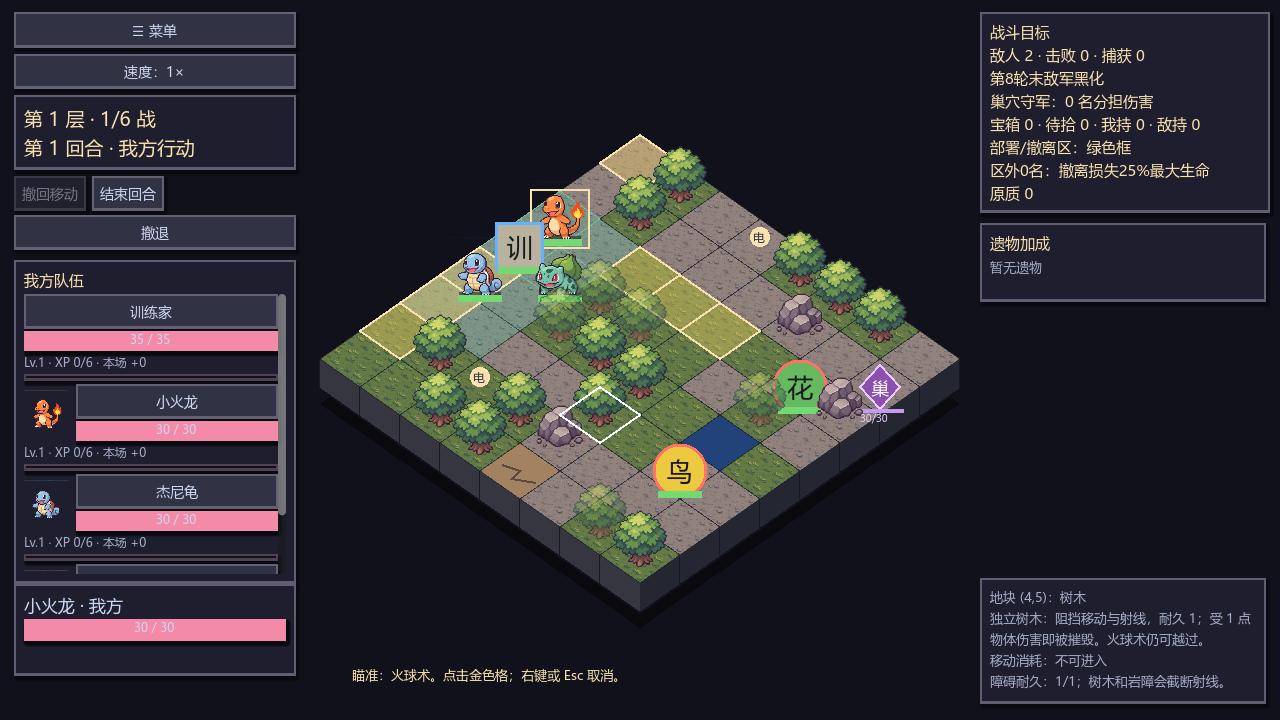
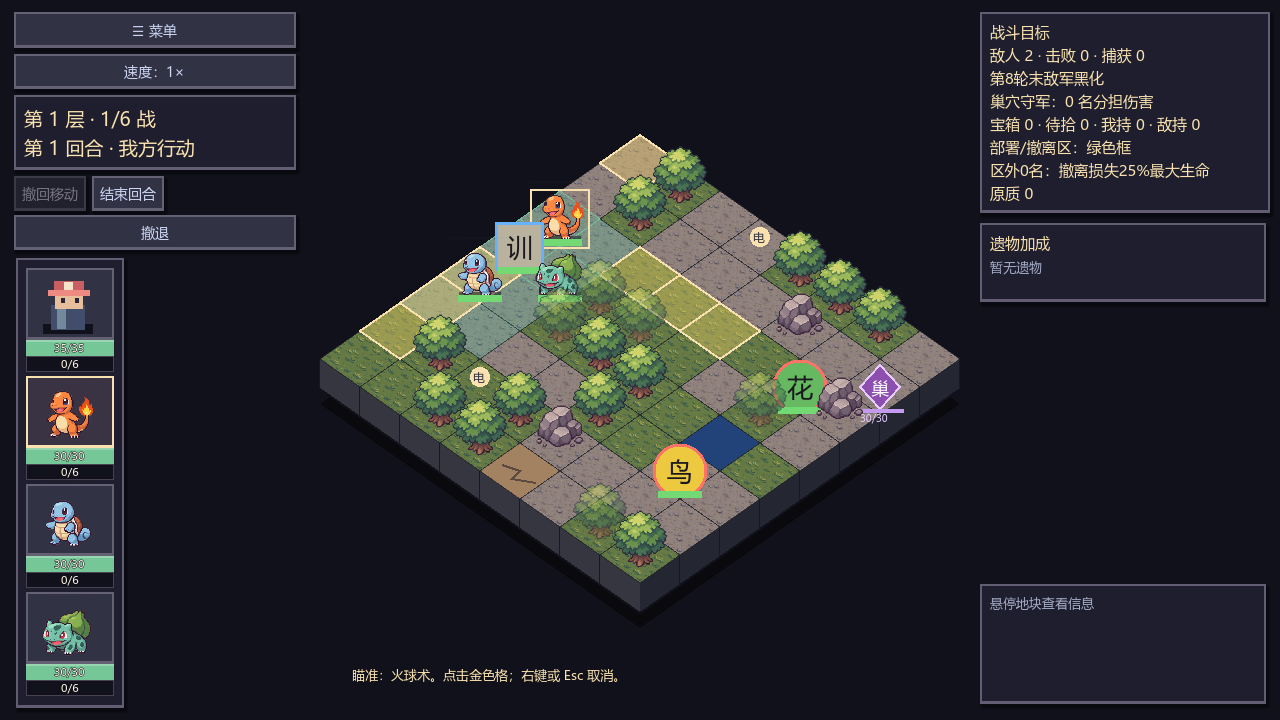
ui: simplify team rail to clickable portraits with health and experience fractions

Changed region(s): [[0.0, 0.3361, 0.25, 1.0], [0.75, 0.7944, 1.0, 0.9778]]

diff --git a/sample/ISOMETRIC.md b/sample/ISOMETRIC.md
@@ -24,3 +24,13 @@
 - isometric-targeting.png：实际技能范围。
 
 完整回归：101用例、13260检查点通过，见本地iso-regression.log；等角专项332检查点通过，见iso-test.log。实机渲染日志iso-render-error.log无脚本错误。全量逻辑测试不能代替所有技能的视觉验收。
+
+## 头像队伍栏简化（2026-11-11）
+
+- 队伍栏为纵向大头像，取消常驻名字、等级与经验说明。
+- 每张头像下紧接绿色生命条与金色经验条，条中央只显示n/n。
+- 整张头像是原有选人操作的入口；选中头像有金色边框，濒死成员禁用。
+- 名称、等级与条的含义通过悬停或键盘聚焦详情显示。
+- 四名初始成员在1280×720画面内同时显示；隐藏重复的左下角选中单位卡。
+- 训练师头像使用临时程序绘制形象，尚非正式委托的角色立绘。
+- 本轮验证：等角与头像专项358检查点、界面流程150检查点、成长显示15检查点通过。
